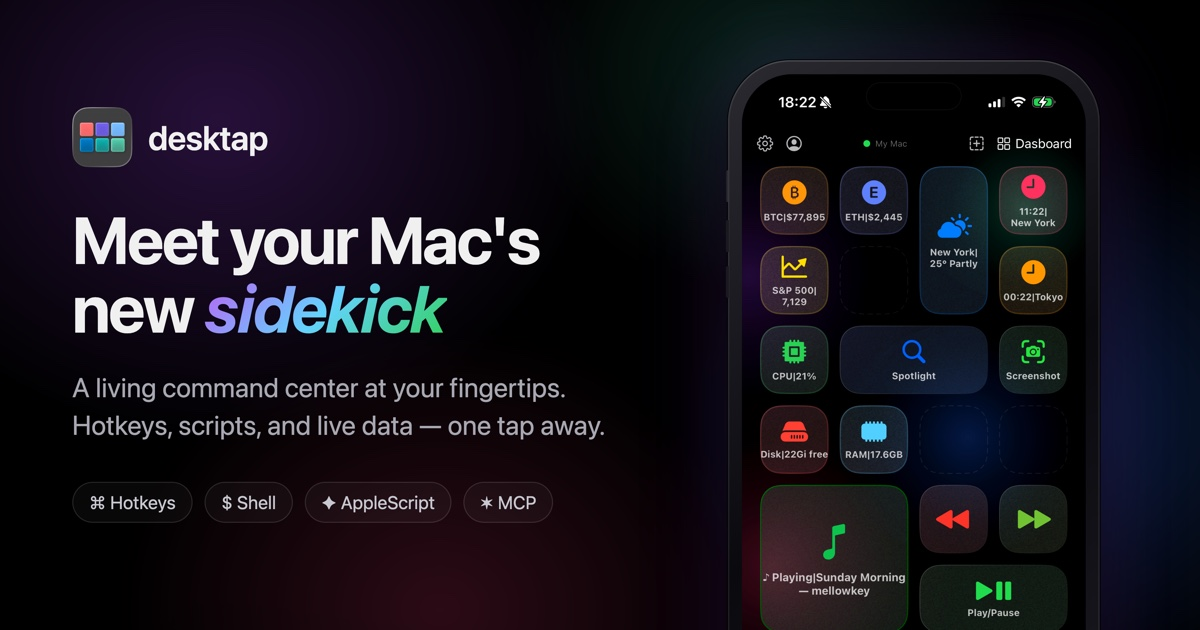
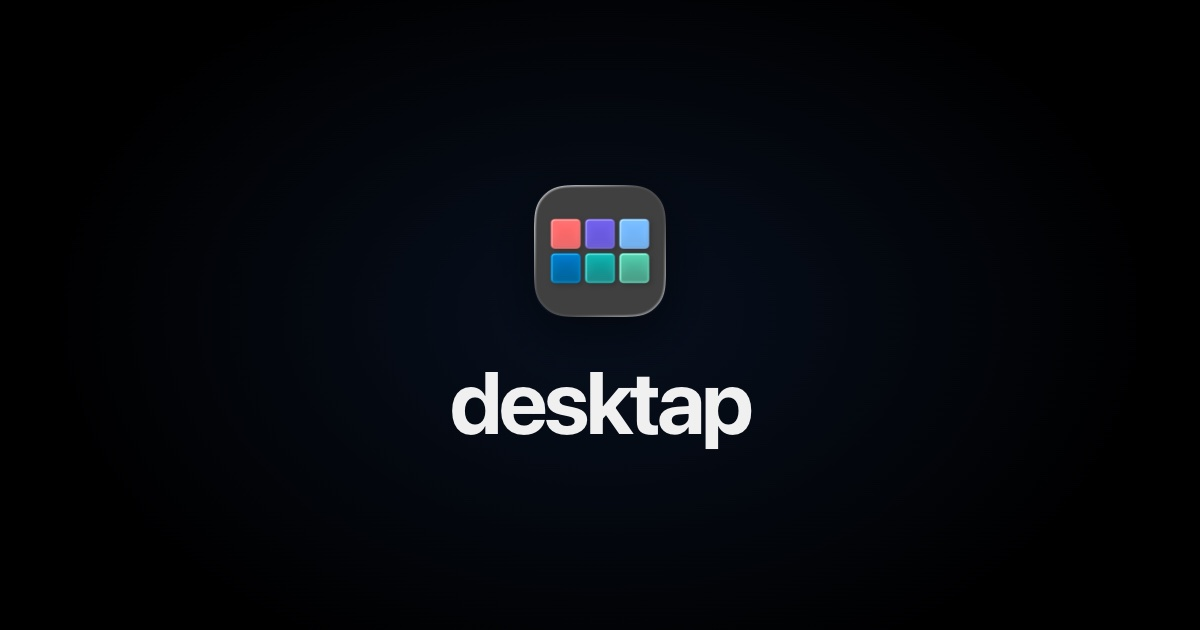
Neutral social preview for every page; file structure in DESIGN.md
og-card.html now draws the icon and the name, with an optional label;
assets/og-image.jpg (docs, privacy, terms) and assets/og-soon.jpg
(home page) are shot from it. DESIGN.md lists the holding page and
next/index.html.

diff --git a/og-card.html b/og-card.html
@@ -2,116 +2,38 @@
 <html lang="en">
 <head>
 <meta charset="UTF-8">
+<meta name="robots" content="noindex">
+<!-- Source of the social previews, shot at 1200×630:
+     og-card.html                     → assets/og-image.jpg (docs, privacy, terms)
+     og-card.html?label=Coming%20soon → assets/og-soon.jpg (home page) -->
 <style>
   :root{
     --accent:#3B82F6;
     --display:-apple-system,BlinkMacSystemFont,'SF Pro Display','Helvetica Neue',system-ui,sans-serif;
-    --sans:-apple-system,BlinkMacSystemFont,'SF Pro Text','Helvetica Neue',system-ui,sans-serif;
+    --mono:'SF Mono',ui-monospace,Menlo,monospace;
   }
   *{margin:0;padding:0;box-sizing:border-box;}
   html,body{width:1200px;height:630px;overflow:hidden;}
-  body{
-    background:#000;
-    position:relative;
-    font-family:var(--sans);
-    color:#F0F0F0;
-  }
-  /* Cosmos blobs — same palette as the site's animated background */
-  .blob{position:absolute;border-radius:50%;filter:blur(8px);}
-  .b1{width:760px;height:640px;left:-160px;top:-200px;
-      background:radial-gradient(closest-side,rgba(120,50,180,.32),rgba(120,50,180,0));}
-  .b2{width:720px;height:600px;right:-200px;top:120px;
-      background:radial-gradient(closest-side,rgba(40,100,220,.30),rgba(40,100,220,0));}
-  .b3{width:640px;height:560px;left:120px;bottom:-260px;
-      background:radial-gradient(closest-side,rgba(200,50,100,.22),rgba(200,50,100,0));}
-  .b4{width:520px;height:460px;right:160px;top:-160px;
-      background:radial-gradient(closest-side,rgba(50,180,140,.20),rgba(50,180,140,0));}
-  .vignette{position:absolute;inset:0;
-      background:radial-gradient(120% 120% at 50% 40%,transparent 50%,rgba(0,0,0,.55) 100%);}
-
-  .wrap{position:relative;height:100%;display:flex;align-items:stretch;
-        padding:0 72px;gap:36px;}
-  .left{flex:1;max-width:620px;display:flex;flex-direction:column;justify-content:center;}
-
-  .brand{display:flex;align-items:center;gap:16px;margin-bottom:38px;}
-  .brand img{width:60px;height:60px;border-radius:14px;}
-  .brand span{font-family:var(--display);font-size:34px;font-weight:600;letter-spacing:-.02em;}
-
-  h1{font-family:var(--display);font-size:66px;line-height:1.04;
-     font-weight:700;letter-spacing:-.03em;}
-  h1 .accent{
-    background:linear-gradient(135deg,#bf5af2 0%,#64d2ff 50%,#30d158 100%);
-    -webkit-background-clip:text;background-clip:text;
-    -webkit-text-fill-color:transparent;
-    font-style:italic;font-weight:700;padding-right:.04em;
-  }
-  .sub{margin-top:26px;font-size:27px;line-height:1.4;color:#A8A8B2;
-       font-weight:400;max-width:560px;}
-
-  .tags{margin-top:38px;display:flex;gap:12px;flex-wrap:wrap;}
-  .tag{font-family:var(--sans);font-size:18px;color:#C8C8D0;
-       padding:9px 16px;border:1px solid rgba(255,255,255,.12);
-       border-radius:999px;background:rgba(255,255,255,.03);}
-
-  .right{position:relative;width:372px;flex-shrink:0;display:flex;
-         justify-content:center;align-items:flex-start;}
-
-  /* Phone with bezel — large, bleeding off the bottom so button labels stay legible.
-     The body's overflow:hidden crops the bottom; side shadows stay visible. */
-  .phone-frame{
-    position:relative;width:384px;margin-top:60px;padding:14px;border-radius:62px;
-    background:linear-gradient(145deg,#2a2a30 0%,#0a0a0e 50%,#1c1c22 100%);
-    box-shadow:
-      inset 0 0 0 1.5px rgba(255,255,255,.08),
-      inset 0 1px 0 rgba(255,255,255,.12),
-      inset 0 -1px 0 rgba(0,0,0,.6),
-      0 0 0 1px rgba(0,0,0,.8),
-      0 24px 60px rgba(0,0,0,.6),
-      0 0 120px rgba(120,50,180,.30);
-  }
-  .phone-frame::before{ /* notch */
-    content:'';position:absolute;top:22px;left:50%;transform:translateX(-50%);
-    width:96px;height:28px;background:#000;border-radius:20px;z-index:2;
-    box-shadow:inset 0 0 0 1px rgba(255,255,255,.04);
-  }
-  .phone-frame::after{ /* side buttons */
-    content:'';position:absolute;left:-2px;top:110px;width:3px;height:32px;
-    background:linear-gradient(90deg,#1a1a1e,#3a3a40);border-radius:2px 0 0 2px;
-    box-shadow:0 50px 0 #1a1a1e,0 50px 0 0 #3a3a40,0 96px 0 #1a1a1e;
-  }
-  .phone-frame img{
-    width:100%;height:auto;display:block;border-radius:50px;background:#000;
-    filter:contrast(1.05) saturate(1.08) brightness(1.02);
-  }
+  body{background:#000;position:relative;color:#F0F0F0;font-family:var(--display);-webkit-font-smoothing:antialiased;}
+  /* One still aura in the accent color */
+  .aura{position:absolute;left:50%;top:50%;width:1100px;height:760px;transform:translate(-50%,-50%);
+        background:radial-gradient(closest-side,rgba(59,130,246,.13),rgba(59,130,246,0));}
+  .wrap{position:relative;height:100%;display:flex;flex-direction:column;align-items:center;justify-content:center;}
+  img{width:132px;height:132px;border-radius:30px;margin-bottom:40px;box-shadow:0 18px 50px rgba(0,0,0,.6);}
+  .name{font-size:88px;font-weight:700;letter-spacing:-.04em;line-height:1;}
+  .label{margin-top:30px;font-family:var(--mono);font-size:22px;letter-spacing:.24em;text-transform:uppercase;color:#7A7A82;}
+  .label:empty{display:none;}
 </style>
 </head>
 <body>
-  <div class="blob b1"></div>
-  <div class="blob b2"></div>
-  <div class="blob b3"></div>
-  <div class="blob b4"></div>
-  <div class="vignette"></div>
-
+  <div class="aura"></div>
   <div class="wrap">
-    <div class="left">
-      <div class="brand">
-        <img src="assets/icon.png" alt="">
-        <span>desktap</span>
-      </div>
-      <h1>Meet your Mac's<br>new <span class="accent">sidekick</span></h1>
-      <p class="sub">A living command center at your fingertips. Hotkeys, scripts, and live data — one tap away.</p>
-      <div class="tags">
-        <span class="tag">⌘ Hotkeys</span>
-        <span class="tag">$ Shell</span>
-        <span class="tag">✦ AppleScript</span>
-        <span class="tag">✶ MCP</span>
-      </div>
-    </div>
-    <div class="right">
-      <div class="phone-frame">
-        <img src="assets/screenshot.png" alt="">
-      </div>
-    </div>
+    <img src="assets/icon.png" alt="">
+    <div class="name">desktap</div>
+    <div class="label" id="label"></div>
   </div>
+  <script>
+    document.getElementById('label').textContent = new URLSearchParams(location.search).get('label') || '';
+  </script>
 </body>
 </html>

diff --git a/DESIGN.md b/DESIGN.md
@@ -226,10 +226,12 @@ Text on the marker line becomes the title (`> [!TIP] A faster way`). In step car
 ## File Structure
 
 ```
-├── index.html          — Landing page (all sections)
+├── index.html          — Holding page: one screen, "Coming soon" (noindex)
+├── next/index.html     — The full landing, reworked here (noindex, absolute paths, nothing links to it)
 ├── privacy.html        — Privacy Policy (legal layout)
 ├── terms.html          — Terms of Use (legal layout)
 ├── docs.html           — Docs shell (loads assets/docs/pages/<slug>.md)
+├── og-card.html        — Source of the social previews: assets/og-image.jpg, assets/og-soon.jpg (?label=Coming%20soon)
 └── assets/
     ├── docs/           — docs.js, pages.json, pages/*.md, js/ (diagrams), img/
     ├── style.css       — Complete stylesheet (~3100 lines; docs part at "Docs")
